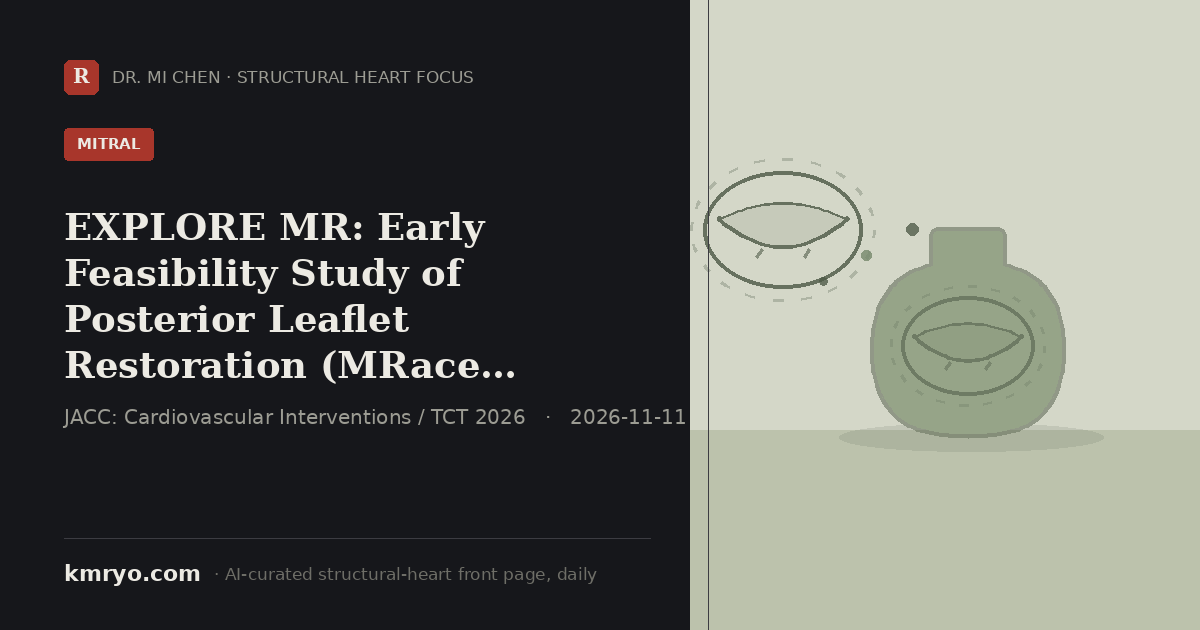
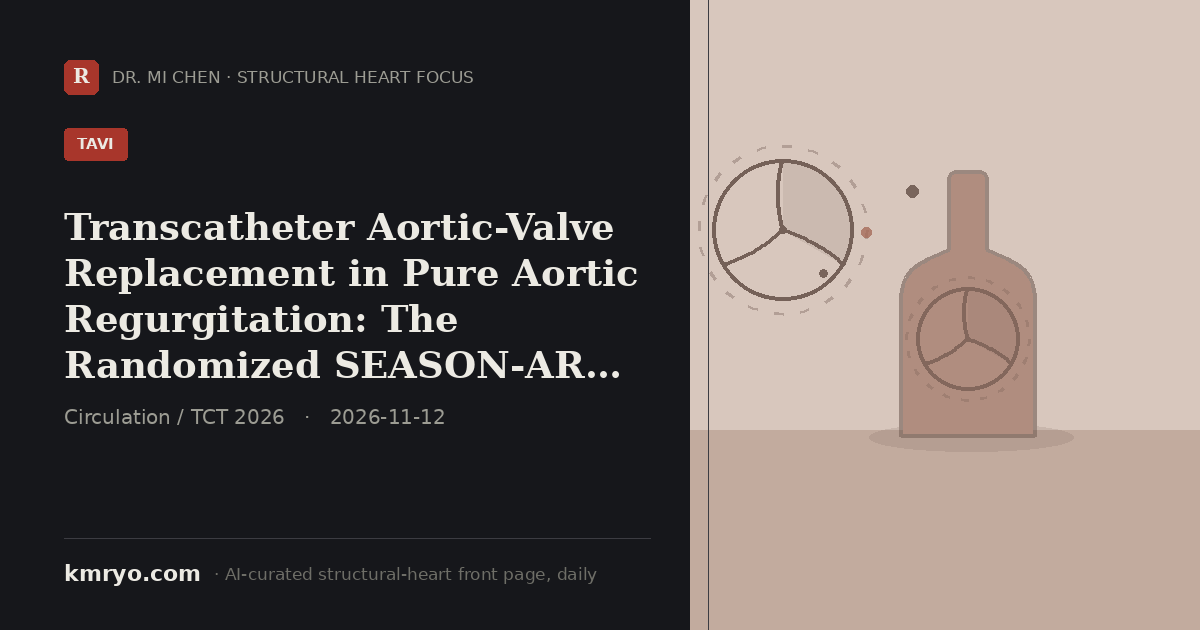
pulse: 2026-11-12 daily update
Claude-Session: https://claude.ai/code/session_01VwCofiBzMMapKkmu4qGYgY

diff --git a/index.html b/index.html
@@ -6,8 +6,8 @@
 <title>Structural Heart Focus — Daily | Dr. Mi Chen</title>
 <meta name="description" content="Structural Heart Focus — the day's most important structural-heart reading (top journals, major meetings and the field's conversation), curated daily by an AI agent from inside the Zurich hybrid room. By Dr. Mi Chen.">
 <!-- Social share card. Regenerated daily by the pulse agent (pulse/make_share_card.py); og:title/description updated to the day's top story so LinkedIn/WeChat/X show today's headline, not a static portrait. -->
-<meta property="og:title" content="EXPLORE MR: Early Feasibility Study of Posterior Leaflet Restoration (MRace Implant) for Secondary Mitral Regurgitation">
-<meta property="og:description" content="EXPLORE MR, presented at TCT 2026 and published in JACC: Cardiovascular Interventions, reports 96% implant success and &gt;90% MR reduction at 30 days (largely sustained at 1 year) in 78 patients treated with the MRace posterior leaflet restoration device.">
+<meta property="og:title" content="Transcatheter Aortic-Valve Replacement in Pure Aortic Regurgitation: The Randomized SEASON-AR Clinical Trial">
+<meta property="og:description" content="The randomized SEASON-AR trial, published in Circulation alongside its TCT 2026 presentation, finds TAVI plus medical therapy improves outcomes versus medical therapy alone for inoperable patients with severe pure aortic regurgitation, with higher bleeding and pacemaker rates.">
 <meta property="og:image" content="https://www.kmryo.com/pulse/img/share/card.png">
 <meta property="og:image:width" content="1200">
 <meta property="og:image:height" content="630">
@@ -16,8 +16,8 @@
 <meta property="og:type" content="website">
 <meta property="og:site_name" content="kmryo.com · Structural Heart Focus">
 <meta name="twitter:card" content="summary_large_image">
-<meta name="twitter:title" content="EXPLORE MR: Early Feasibility Study of Posterior Leaflet Restoration (MRace Implant) for Secondary Mitral Regurgitation">
-<meta name="twitter:description" content="EXPLORE MR, presented at TCT 2026 and published in JACC: Cardiovascular Interventions, reports 96% implant success and &gt;90% MR reduction at 30 days (largely sustained at 1 year) in 78 patients treated with the MRace posterior leaflet restoration device.">
+<meta name="twitter:title" content="Transcatheter Aortic-Valve Replacement in Pure Aortic Regurgitation: The Randomized SEASON-AR Clinical Trial">
+<meta name="twitter:description" content="The randomized SEASON-AR trial, published in Circulation alongside its TCT 2026 presentation, finds TAVI plus medical therapy improves outcomes versus medical therapy alone for inoperable patients with severe pure aortic regurgitation, with higher bleeding and pacemaker rates.">
 <meta name="twitter:image" content="https://www.kmryo.com/pulse/img/share/card.png">
[1 lines of base64/hex data omitted]
 <link rel="preconnect" href="https://fonts.googleapis.com">
